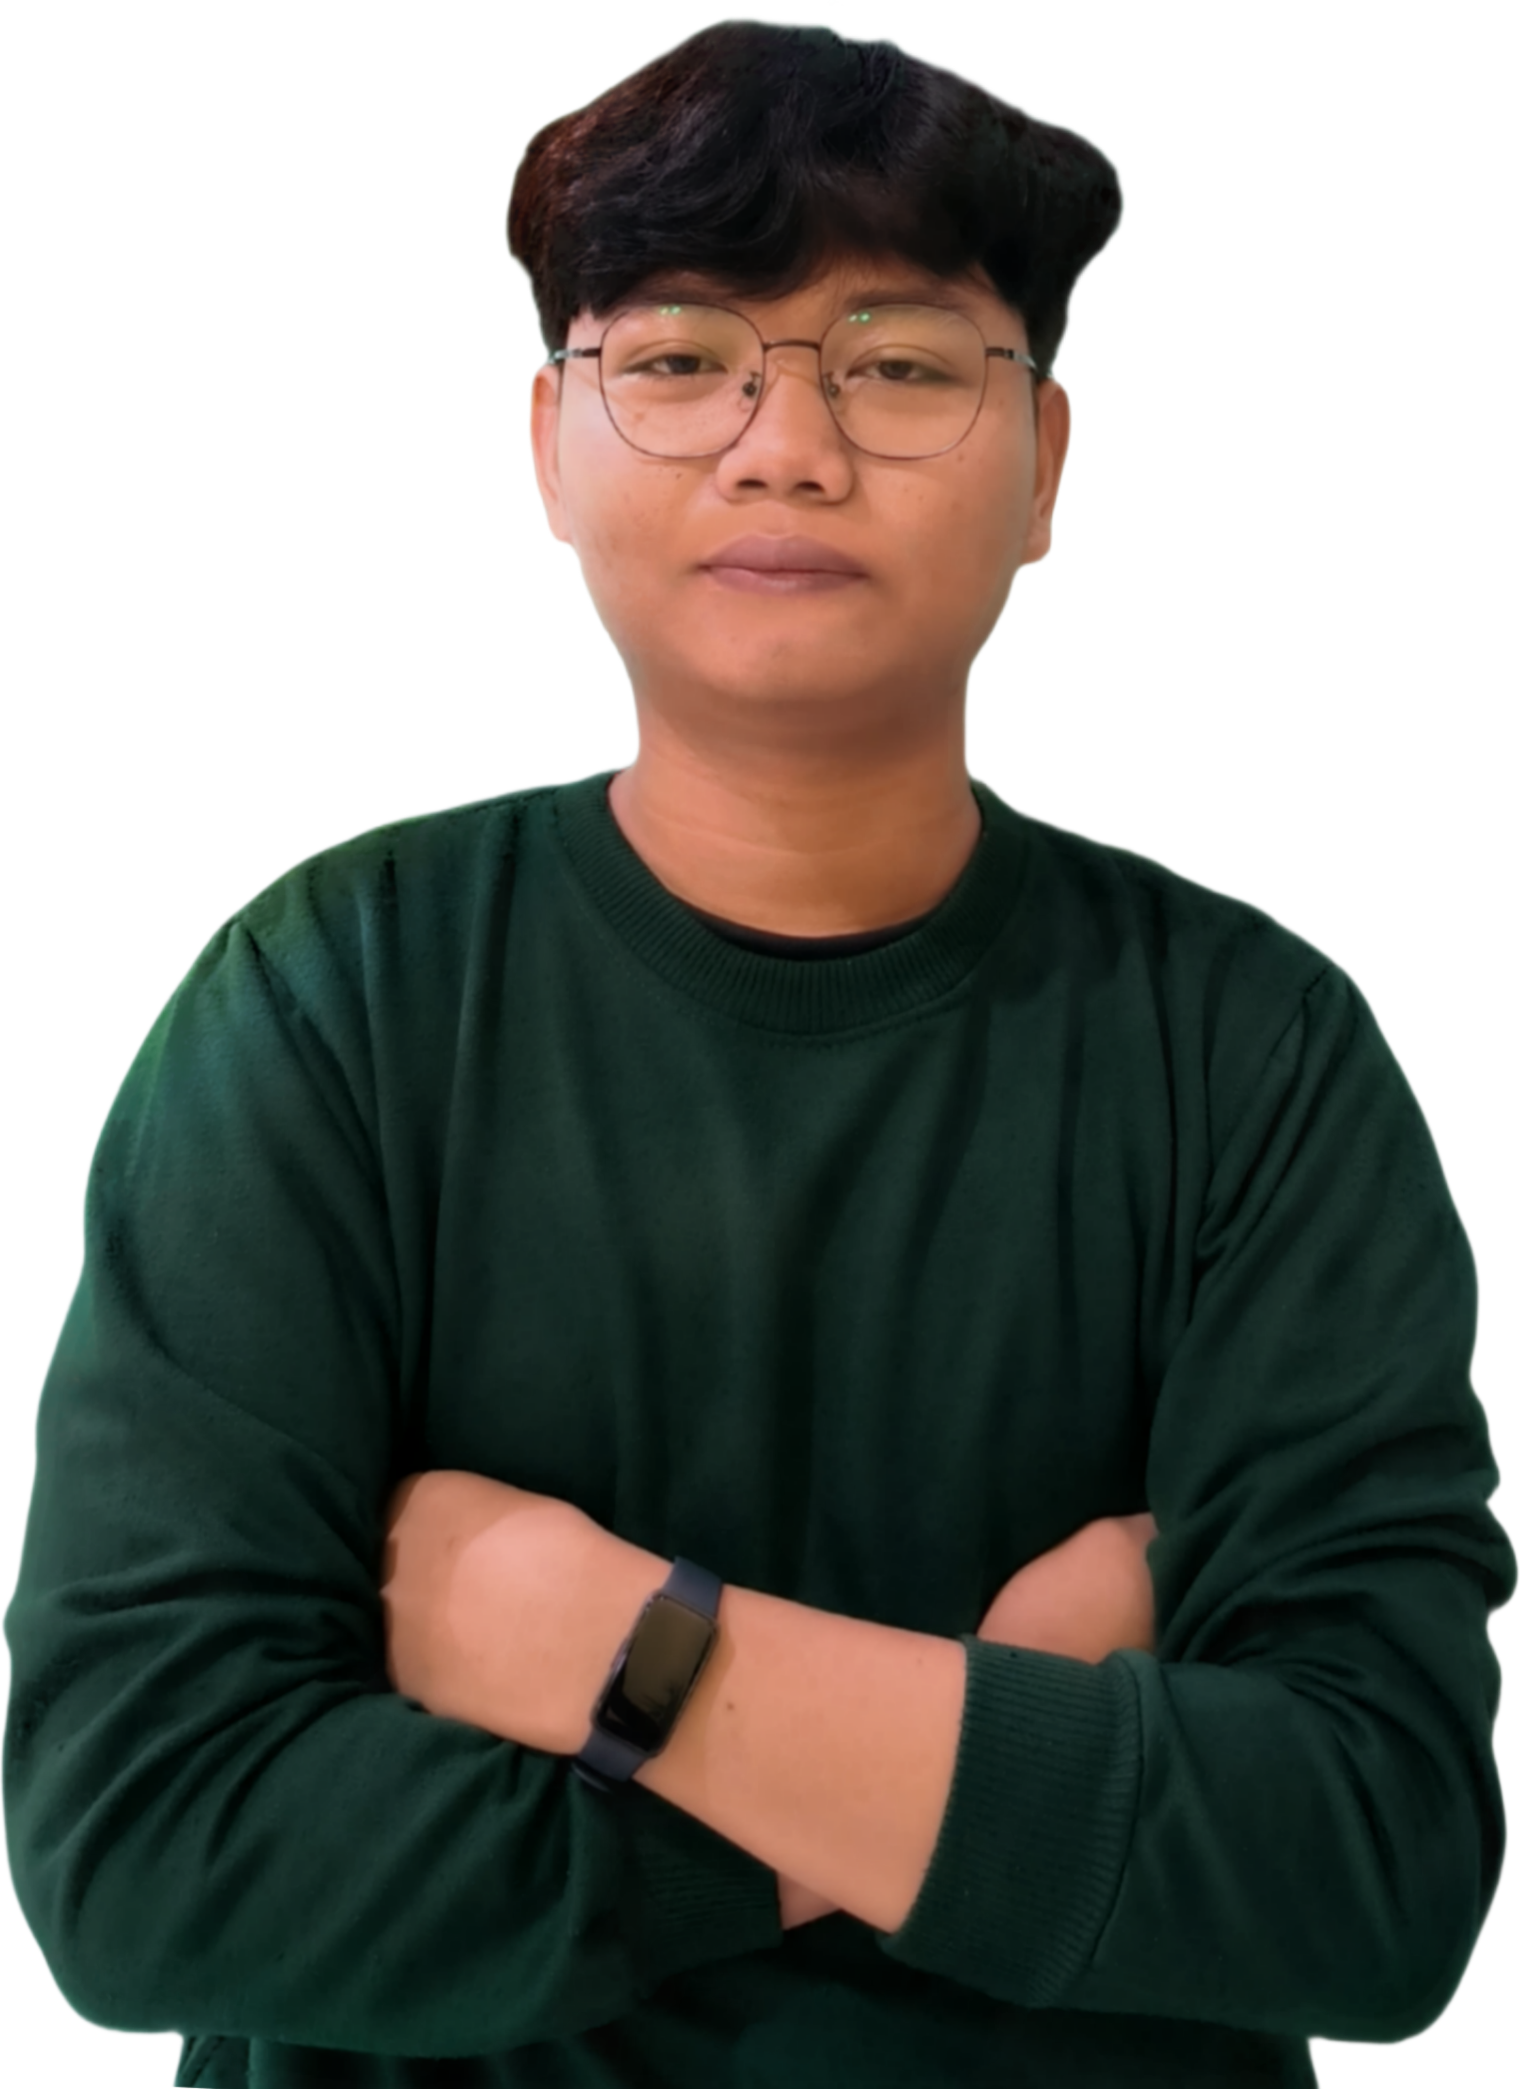
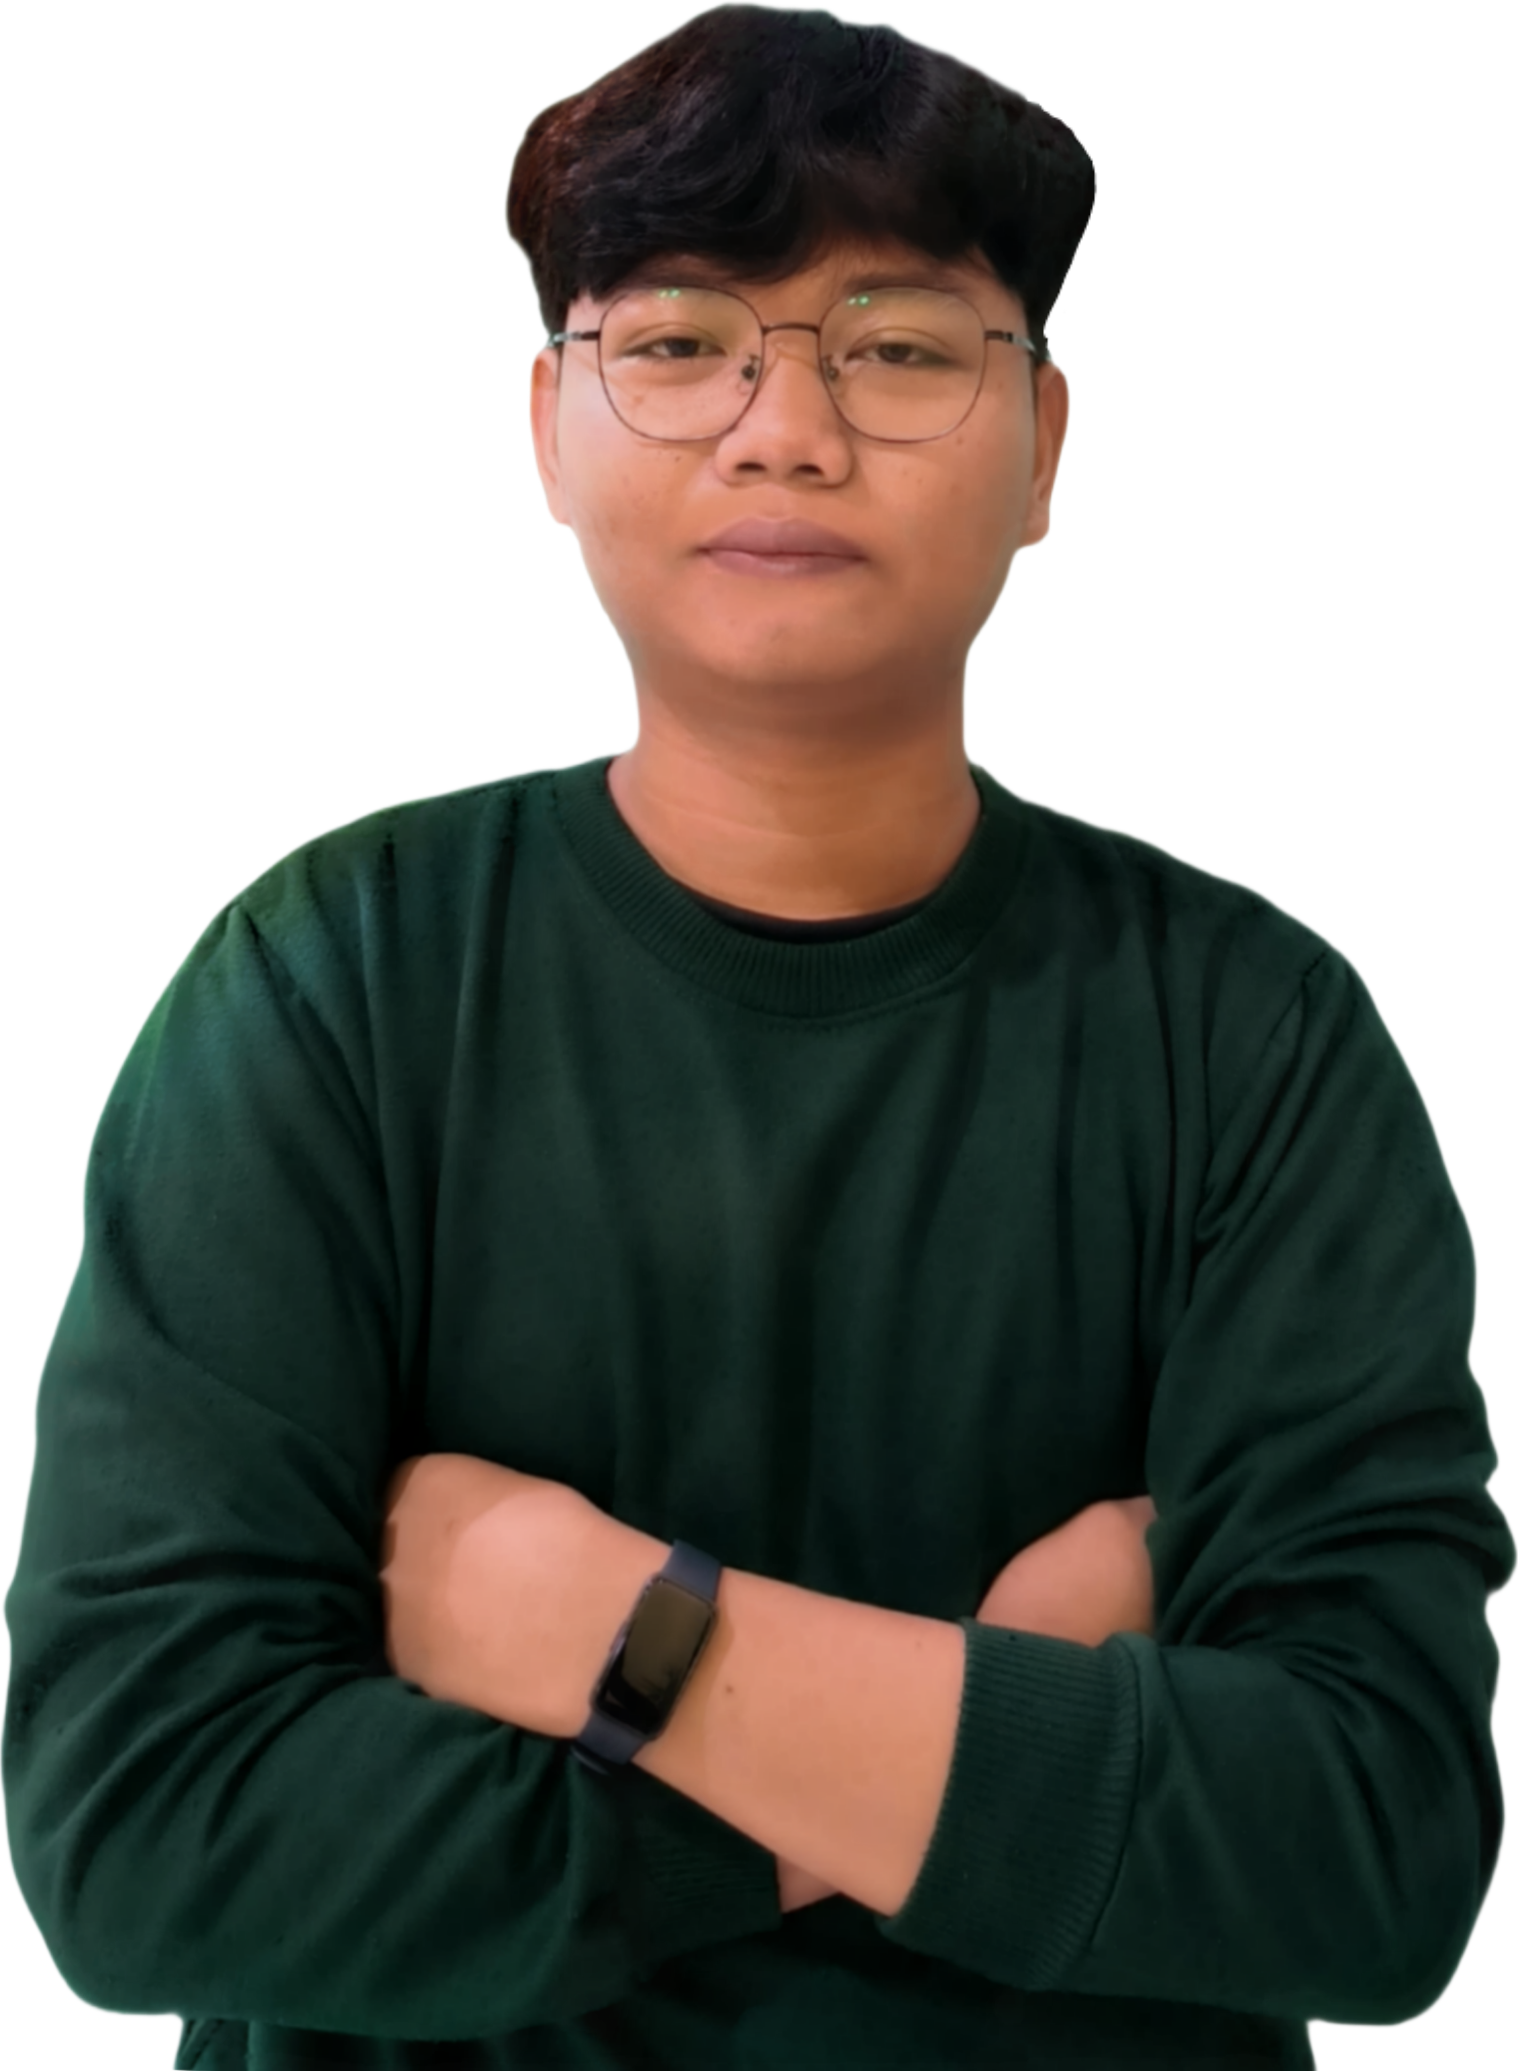
fixed error hair

diff --git a/index.html b/index.html
@@ -237,7 +237,7 @@
 								data-wow-delay="1.8s"
 							>
 								<img
-									src="assets/images/profiles/original-stabilized.png"
+									src="assets/images/profiles/original-stabilized-2.png"
 									alt="hero"
 								/>
 							</div>
